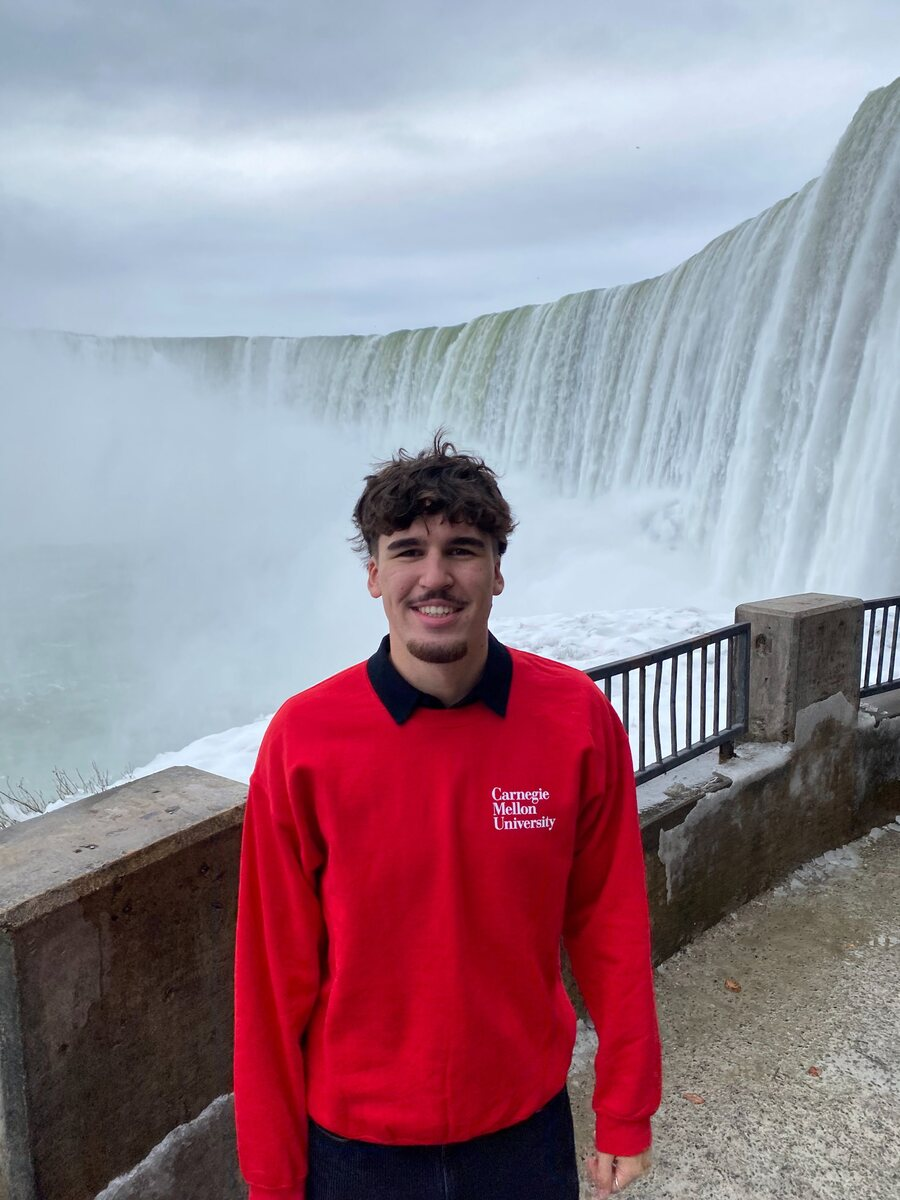
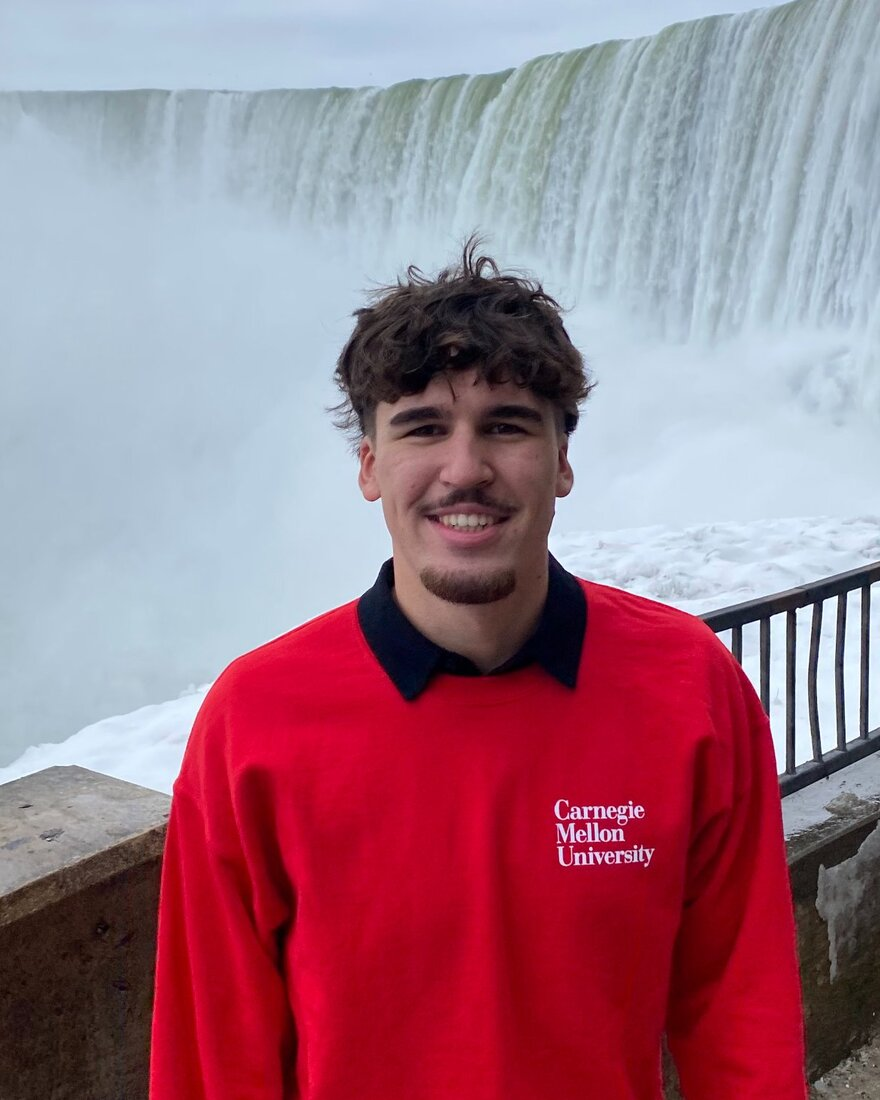
Recrop hero portrait (centered), remove matte frame, reduce corner radius
Claude-Session: https://claude.ai/code/session_01EsrXN8Sg2XuxCtNPGBgkti

diff --git a/index.html b/index.html
@@ -205,18 +205,12 @@
     }
     .portrait-card {
       position: relative; width: min(100%, 440px); aspect-ratio: 4 / 5;
-      border-radius: 22px; overflow: hidden; padding: 10px;
-      border: 1px solid var(--line); background: var(--surface);
-      box-shadow: 0 26px 55px rgba(15, 23, 42, 0.14);
-    }
-    .portrait-card::before {
-      content: ""; position: absolute; inset: 10px; z-index: 2; border-radius: 13px;
-      box-shadow: inset 0 0 0 1px rgba(15, 23, 42, 0.07);
-      pointer-events: none;
+      border-radius: 10px; overflow: hidden; border: 1px solid var(--line);
+      background: var(--surface-subtle); box-shadow: 0 20px 44px rgba(15, 23, 42, 0.12);
     }
     .portrait-card img {
       display: block; width: 100%; height: 100%; object-fit: cover; object-position: center center;
-      border-radius: 13px; filter: saturate(0.98) contrast(1.02);
+      filter: saturate(0.98) contrast(1.02);
     }
     .portrait-meta {
       position: absolute; left: 16px; right: 16px; bottom: 16px; z-index: 2;
@@ -234,9 +228,8 @@
 
     .timeline-photo {
       float: right; width: 178px; aspect-ratio: 3 / 4; object-fit: cover; object-position: center top;
-      border-radius: 14px; padding: 6px; background: var(--surface);
-      margin: 2px 0 16px 24px; border: 1px solid var(--line);
-      box-shadow: 0 12px 28px rgba(15, 23, 42, 0.14);
+      border-radius: 8px; margin: 2px 0 16px 24px; border: 1px solid var(--line);
+      box-shadow: 0 10px 24px rgba(15, 23, 42, 0.12);
     }
     @media (max-width: 640px) {
       .timeline-photo { float: none; display: block; width: 100%; max-width: 240px; margin: 0 auto 16px; aspect-ratio: 4 / 3; }
